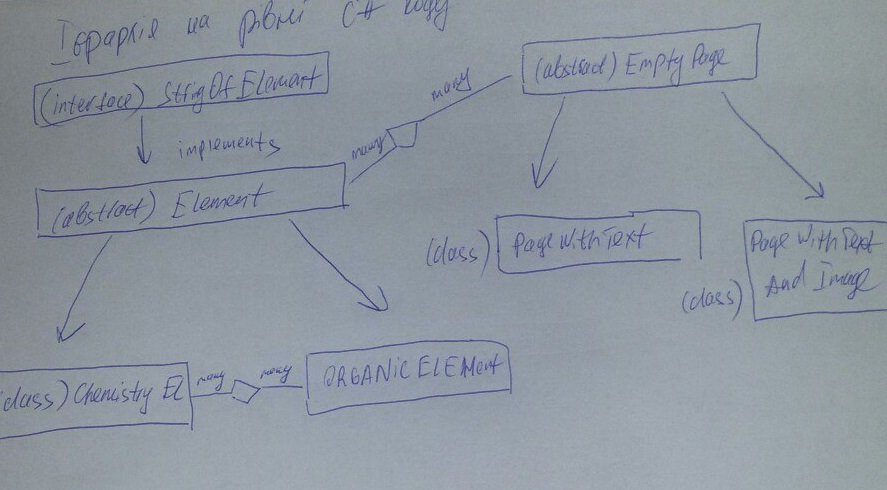
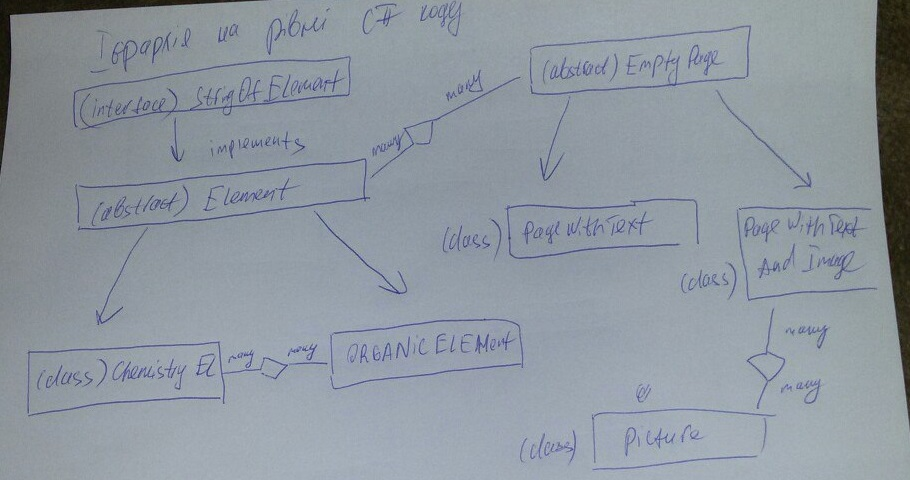
finished with diagrams and classes

diff --git a/HomeTask/HomeTask/ChemistryElement.cs b/HomeTask/HomeTask/ChemistryElement.cs
@@ -69,6 +69,13 @@ namespace HomeTask
             return str;
         }
     }
+    [Table("Picture")]
+    public class Picture
+    {
+        public int Id { get; set; }
+        public string UrlOfImage { get; set; }
+        public HashSet<PageWithTextAndImage> Pages { get; set; }
+    }
 
     public abstract class EmptyPage
     {
@@ -85,6 +92,7 @@ namespace HomeTask
     public class PageWithTextAndImage : PageWithText
     {
         public string UrlOfImage { get; set; }
+        public HashSet<Picture> Pictures { get; set; }
     }
 }
 
